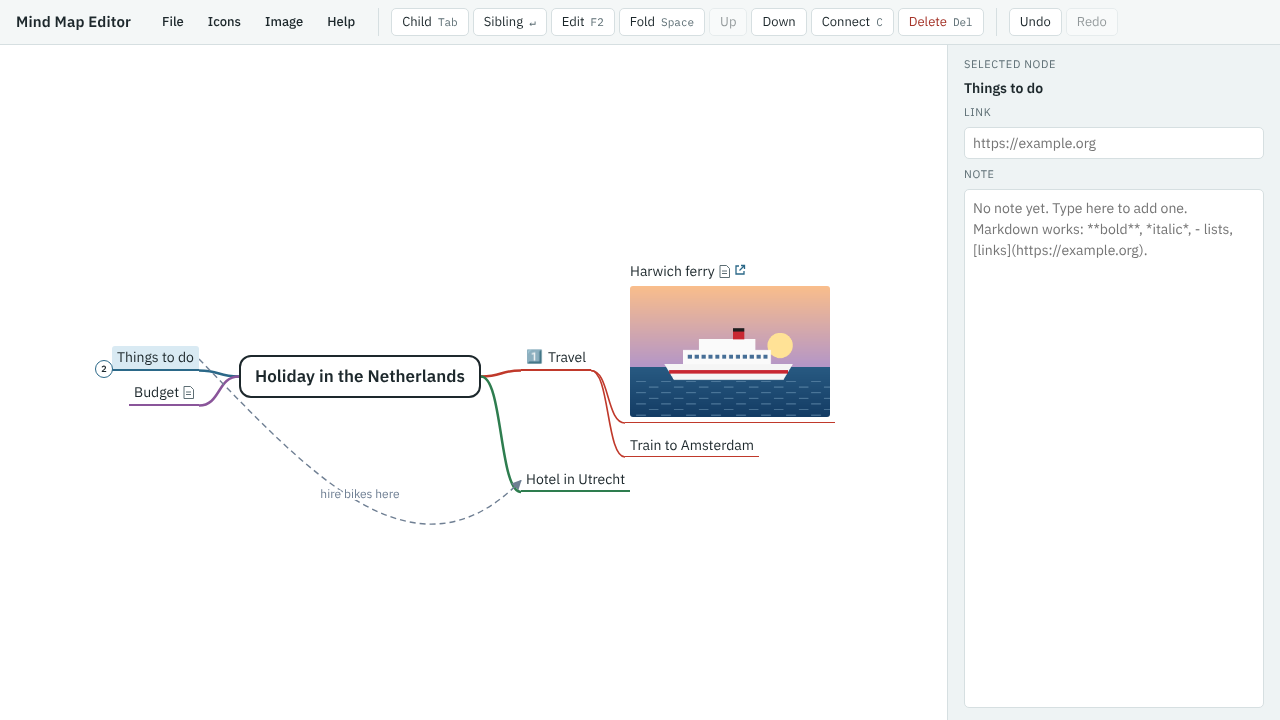
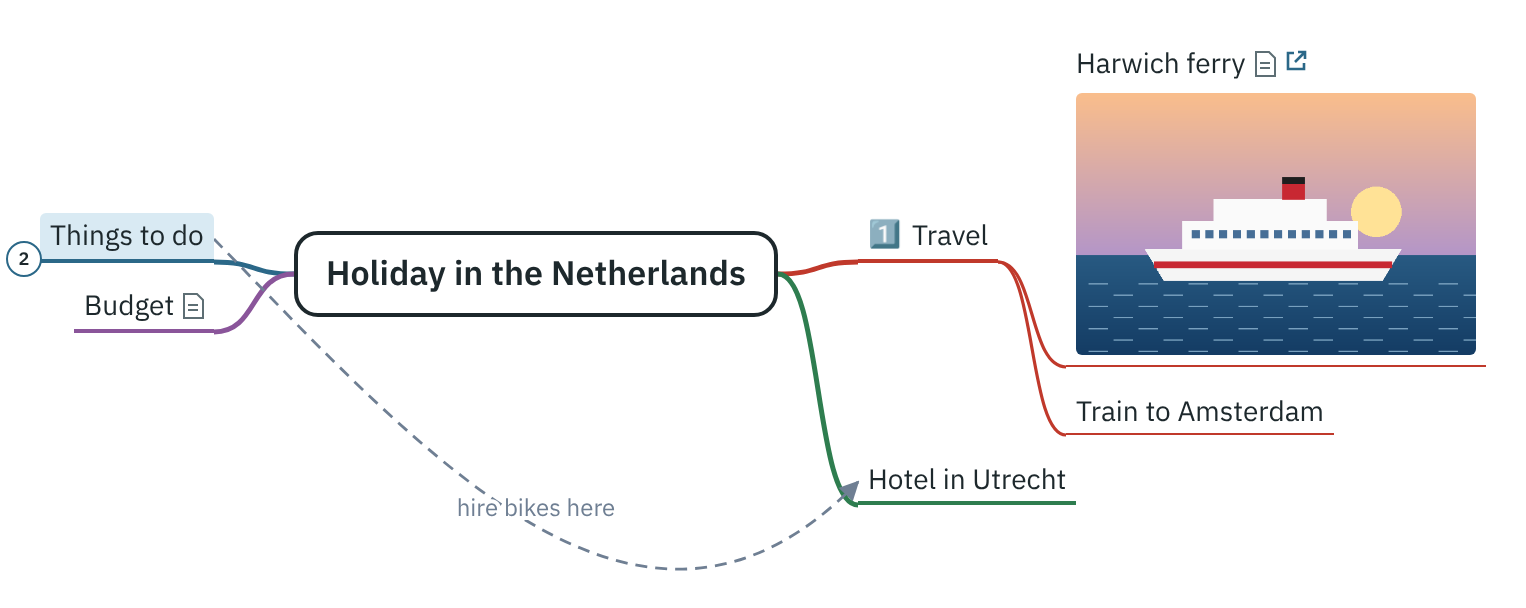
Docs (draft): crop the tutorial screenshots to what each step is about
demos/tutorial_screenshots.py now crops each picture to the map's
branches, connectors and labels plus a 20 px margin, and records at 2x
for sharp pictures on phones. The note and link steps show the selected
branch and the side panel; the maths step shows the panel alone, so the
pictures stay readable at the smaller size. Pictures are shown at their
natural size, at most 26rem wide (80% on a phone).

Claude-Session: https://claude.ai/code/session_01F93hjqecN1bWeszH1bXUcD

diff --git a/_layouts/tutorial.html b/_layouts/tutorial.html
@@ -33,7 +33,7 @@ pre code { background: none; padding: 0; }
 table { border-collapse: collapse; font-size: .92rem; display: block; overflow-x: auto; }
 th, td { border-bottom: 1px solid var(--line); padding: .35rem .7rem .35rem 0; text-align: left; vertical-align: top; }
 /* Screenshots: small, framed, and a tap opens the full-size picture. */
-.page img { display: block; width: 100%; max-width: 26rem; margin: 1.2rem auto; border: 1px solid var(--line); border-radius: 6px; }
+.page img { display: block; width: auto; height: auto; max-width: min(100%, 26rem); margin: 1.2rem auto; border: 1px solid var(--line); border-radius: 6px; }
 @media (max-width: 30rem) { .page img { max-width: 80%; } }
 /* Back and forward arrows */
 .steps { display: flex; align-items: center; justify-content: space-between; gap: 1rem;

diff --git a/demos/tutorial_screenshots.py b/demos/tutorial_screenshots.py
@@ -22,6 +22,20 @@ PAGES_URL = 'https://romilly.github.io/browser-based-tools/mindmap-editor.html'
 OUT = Path(__file__).resolve().parent.parent / 'mindmap-editor' / 'tutorials' / 'images'
 IMAGE = OUT / 'harwich_ferry.png'
 SIZE = {'width': 1280, 'height': 720}
+MARGIN = 20   # space left round the cropped part, in pixels
+PANEL = ('#noteFor', '#link', '#noteView:not([hidden]) > *')   # the side panel, for steps about notes and links
+
+# The smallest box round every branch, connector and label (and any extra elements), plus MARGIN, inside the window.
+CROP = """([extra, wholeMap]) => {
+  const els = [...document.querySelectorAll(wholeMap ? '#stage .node, #edges path:not(.hit), #edges text' : wholeMap === false ? '#stage .node.sel' : ':not(*)')];
+  for (const sel of extra) els.push(...document.querySelectorAll(sel));
+  const rects = els.map(e => e.getBoundingClientRect()).filter(r => r.width && r.height);
+  const x0 = Math.max(0, Math.min(...rects.map(r => r.left)) - %(m)d);
+  const y0 = Math.max(0, Math.min(...rects.map(r => r.top)) - %(m)d);
+  const x1 = Math.min(innerWidth, Math.max(...rects.map(r => r.right)) + %(m)d);
+  const y1 = Math.min(innerHeight, Math.max(...rects.map(r => r.bottom)) + %(m)d);
+  return {x: x0, y: y0, width: x1 - x0, height: y1 - y0};
+}""" % {'m': MARGIN}
 
 # Every screenshot the tutorial uses, in the order they are made.
 SHOTS = ['new-map', 'main-branches', 'detail', 'note', 'link', 'picture', 'icons',
@@ -52,11 +66,13 @@ class Tutorial:
         await self.page.click(f'#menubar button.mb:text-is("{name}")')
         await self.page.click(item)
 
-    async def shot(self, name):
+    async def shot(self, name, *also, whole_map=True):
+        """Save a picture cropped to the map's branches and connectors (or, with whole_map=False,
+        just the selected branch; with whole_map=None, nothing from the map), plus any `also` selectors."""
         await self.page.wait_for_timeout(300)
         await self.page.mouse.move(0, SIZE['height'] - 1)   # no hover tooltips in the pictures
-        await self.page.screenshot(path=str(self.out / f'{name}.png'))
-
+        box = await self.page.evaluate(CROP, [list(also), whole_map])
+        await self.page.screenshot(path=str(self.out / f'{name}.png'), clip=box)
 
 async def run_steps(t, image, folder):
     page = t.page
@@ -91,12 +107,12 @@ async def run_steps(t, image, folder):
     await t.select('Harwich ferry')
     await page.click('#note')
     await t.type('Book the **night ferry** from Harwich.\n\n- bikes go free\n- cabin for two', then='Escape')
-    await t.shot('note')
+    await t.shot('note', *PANEL, whole_map=False)
 
     # 6. A web link
     await page.click('#link')
     await t.type('www.stenaline.co.uk', then='Enter')
-    await t.shot('link')
+    await t.shot('link', *PANEL, whole_map=False)
 
     # 7. A picture
     async with page.expect_file_chooser() as chooser:
@@ -128,7 +144,7 @@ async def run_steps(t, image, folder):
     await page.click('#note')
     await t.type('Total for $n$ nights:\n\n$$C = n \\times (h + f)$$', then='Escape')
     await page.wait_for_selector('#noteView mjx-container', timeout=20000)
-    await t.shot('maths')
+    await t.shot('maths', *PANEL, whole_map=None)
 
     # 11. Tidy up: move Cycling up, fold Things to do
     await t.select('Cycling')
@@ -149,7 +165,7 @@ async def run_steps(t, image, folder):
     await (await chooser.value).set_files(str(saved))
     await page.wait_for_selector('.pic img')
     await t.select('Harwich ferry')
-    await t.shot('opened')
+    await t.shot('opened', '#toast')
 
     await t.select('Holiday in the Netherlands')
     await page.evaluate('document.querySelector("#toast").hidden = true')
@@ -166,7 +182,7 @@ async def make_tutorial_screenshots(out=OUT, url=PAGES_URL, prepare_page=None, i
     with tempfile.TemporaryDirectory() as folder:
         async with async_playwright() as p:
             browser = await p.chromium.launch()
-            context = await browser.new_context(viewport=SIZE, device_scale_factor=1,
+            context = await browser.new_context(viewport=SIZE, device_scale_factor=2,
                                                 color_scheme='light', accept_downloads=True)
             page = await context.new_page()
             if prepare_page:
